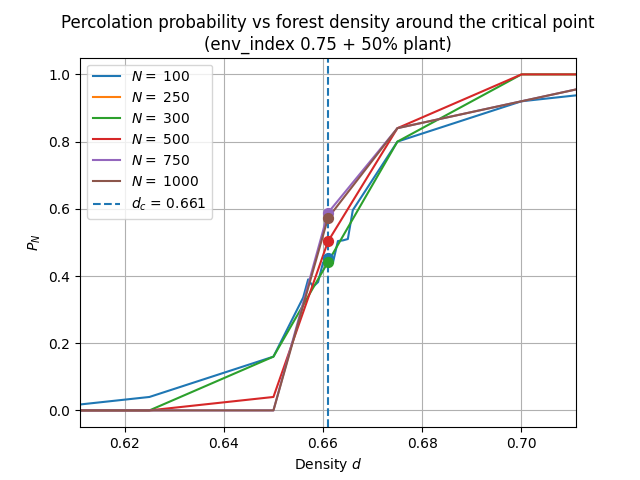
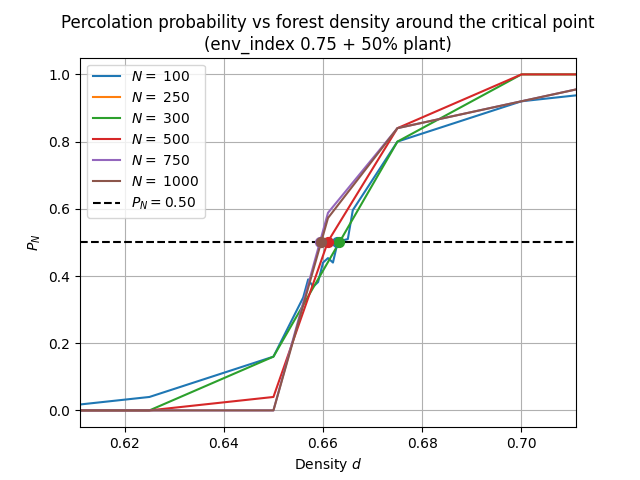
Cluster density plot saving

diff --git a/ForestFirePercolation/src/plots/percolation_plot.py b/ForestFirePercolation/src/plots/percolation_plot.py
@@ -12,7 +12,7 @@ class PercolationPlot:
         self.probabilities = []
         self.system_size = 0
 
-    def plot_percolation_vs_density(self, densities, probabilities, ax, label, critical_point):
+    def plot_percolation_vs_density(self, densities, probabilities, ax, label):
         """
         Function that plots the probability of the system percolating over forest densities.
 
@@ -23,24 +23,24 @@ class PercolationPlot:
         :param label: Label to attach to the plot, to be used in the legend of the figure.
         """
         line, = ax.plot(densities, probabilities, label=label)
-        if critical_point != 0.0:
-            densities = np.array(densities)
-            probabilities = np.array(probabilities)
-            interpolator = interp1d(densities, probabilities, kind='linear', bounds_error=False,
-                                    fill_value="extrapolate")
-            interpolated_probability = interpolator(critical_point)
-            ax.scatter(critical_point, interpolated_probability, color=line.get_color(), s=50, zorder=5)
-        return ax
+        return ax, line
 
 
-    def plot_single_percolation_vs_density(self, ax, critical_point):
+    def plot_single_percolation_vs_density(self, ax, plot_critical=False):
         """
         Function that creates a plot of percolation probability vs forest density for one system size.
 
         :param ax: pyplot ax object to generate the plot in.
         """
         label = r'$N =$ ' + str(self.system_size)
-        self.plot_percolation_vs_density(self.densities, self.probabilities, ax, label, critical_point)
+        ax, line = self.plot_percolation_vs_density(self.densities, self.probabilities, ax, label)
+        if plot_critical:
+            densities = np.array(self.densities)
+            probabilities = np.array(self.probabilities)
+            interpolator = interp1d(probabilities, densities, kind='linear', bounds_error=False,
+                                    fill_value="extrapolate")
+            interpolated_density = interpolator(0.5)
+            ax.scatter(interpolated_density, 0.5, color=line.get_color(), s=50, zorder=5)
         return ax
 
     def save_amount_percolated_per_density(self, results):
@@ -84,10 +84,10 @@ class PercolationPlot:
         for system_size in results_per_system_size:
             self.save_amount_percolated_per_density(results_per_system_size[system_size])
             self.system_size = system_size
-            self.plot_single_percolation_vs_density(ax, critical_point)
+            self.plot_single_percolation_vs_density(ax, plot_critical)
         # Add critical point and/or zoom in on critical point
         if critical_point != 0.0:
-            ax.axvline(x=critical_point, ls='--', label=r'$d_c$ = ' + str(critical_point))
+            ax.axhline(y=0.5, ls='--', label=r'$P_N = 0.50$', color='black')
             if plot_critical:
                 ax.set_xlim(critical_point - 0.05, critical_point + 0.05)
         ax.grid()

diff --git a/ForestFirePercolation/src/main_generate_plots.py b/ForestFirePercolation/src/main_generate_plots.py
@@ -3,13 +3,13 @@ from plots.plot_generator import PlotGenerator
 if __name__ == "__main__":
     generator = PlotGenerator("Snellius/Snellius_Data_Full.csv")
     # generator = PlotGenerator("Simulation_data_critpoints.csv")
-    # generator.generate_base_experiment_plots()
-    # generator.generate_wind_experiment_plots()
-    # generator.generate_env_index_experiment_plots()
-    # generator.generate_env_index_050_and_wind_experiment_plots()
-    # generator.generate_plant_experiment_plots()
-    generator.generate_base_SOC_plots()
-    generator.generate_wind_SOC_plots()
-    generator.generate_env_wind_SOC_plots()
-    generator.generate_plant_SOC_plots()
-    generator.generate_env_index_SOC_plots()
+    generator.generate_base_experiment_plots()
+    generator.generate_wind_experiment_plots()
+    generator.generate_env_index_experiment_plots()
+    generator.generate_env_index_050_and_wind_experiment_plots()
+    generator.generate_plant_experiment_plots()
+    # generator.generate_base_SOC_plots()
+    # generator.generate_wind_SOC_plots()
+    # generator.generate_env_wind_SOC_plots()
+    # generator.generate_plant_SOC_plots()
+    # generator.generate_env_index_SOC_plots()

diff --git a/ForestFirePercolation/src/plots/multi_setting_plot.py b/ForestFirePercolation/src/plots/multi_setting_plot.py
@@ -27,7 +27,6 @@ class MultiSettingPlot(PercolationPlot):
         results_per_setting = results_dict['results']
         critical_points = results_dict['critical_points']
         label_suffixes = results_dict['label_suffixes']
-        colors = results_dict['colors']
         results_index = 0
         for results_per_system_size in results_per_setting:
             if single_size:
@@ -42,8 +41,7 @@ class MultiSettingPlot(PercolationPlot):
             # Add critical point and/or zoom in on critical point
             critical_point = critical_points[results_index]
             if critical_point != 0.0:
-                ax.axvline(x=critical_point, color=colors[results_index], ls='--', label=r'$d_c$ = '
-                                                                                         + str(critical_point))
+                ax.axhline(y=0.5, ls='--', label=r'$P_N = 0.50$', color='black')
             results_index += 1
         if plot_critical:
             ax.set_xlim(critical_points[0] - 0.05, critical_points[-1] + 0.05)

diff --git a/ForestFirePercolation/src/plots/cluster_size_plot.py b/ForestFirePercolation/src/plots/cluster_size_plot.py
@@ -79,8 +79,9 @@ class ClusterSizePlot:
 
     def plot_power_law(self, bin_centers, normalized_hist, ax, label_power_law):
         try:
-            fit = powerlaw.Fit(self.cluster_sizes, discrete=False)
+            fit = powerlaw.Fit(self.cluster_sizes, discrete=True, estimate_discrete=False)
             alpha = fit.power_law.alpha
+            fit.power_law.estimate_discrete
             xmin = fit.power_law.xmin
             xmax = fit.power_law.xmax
 
